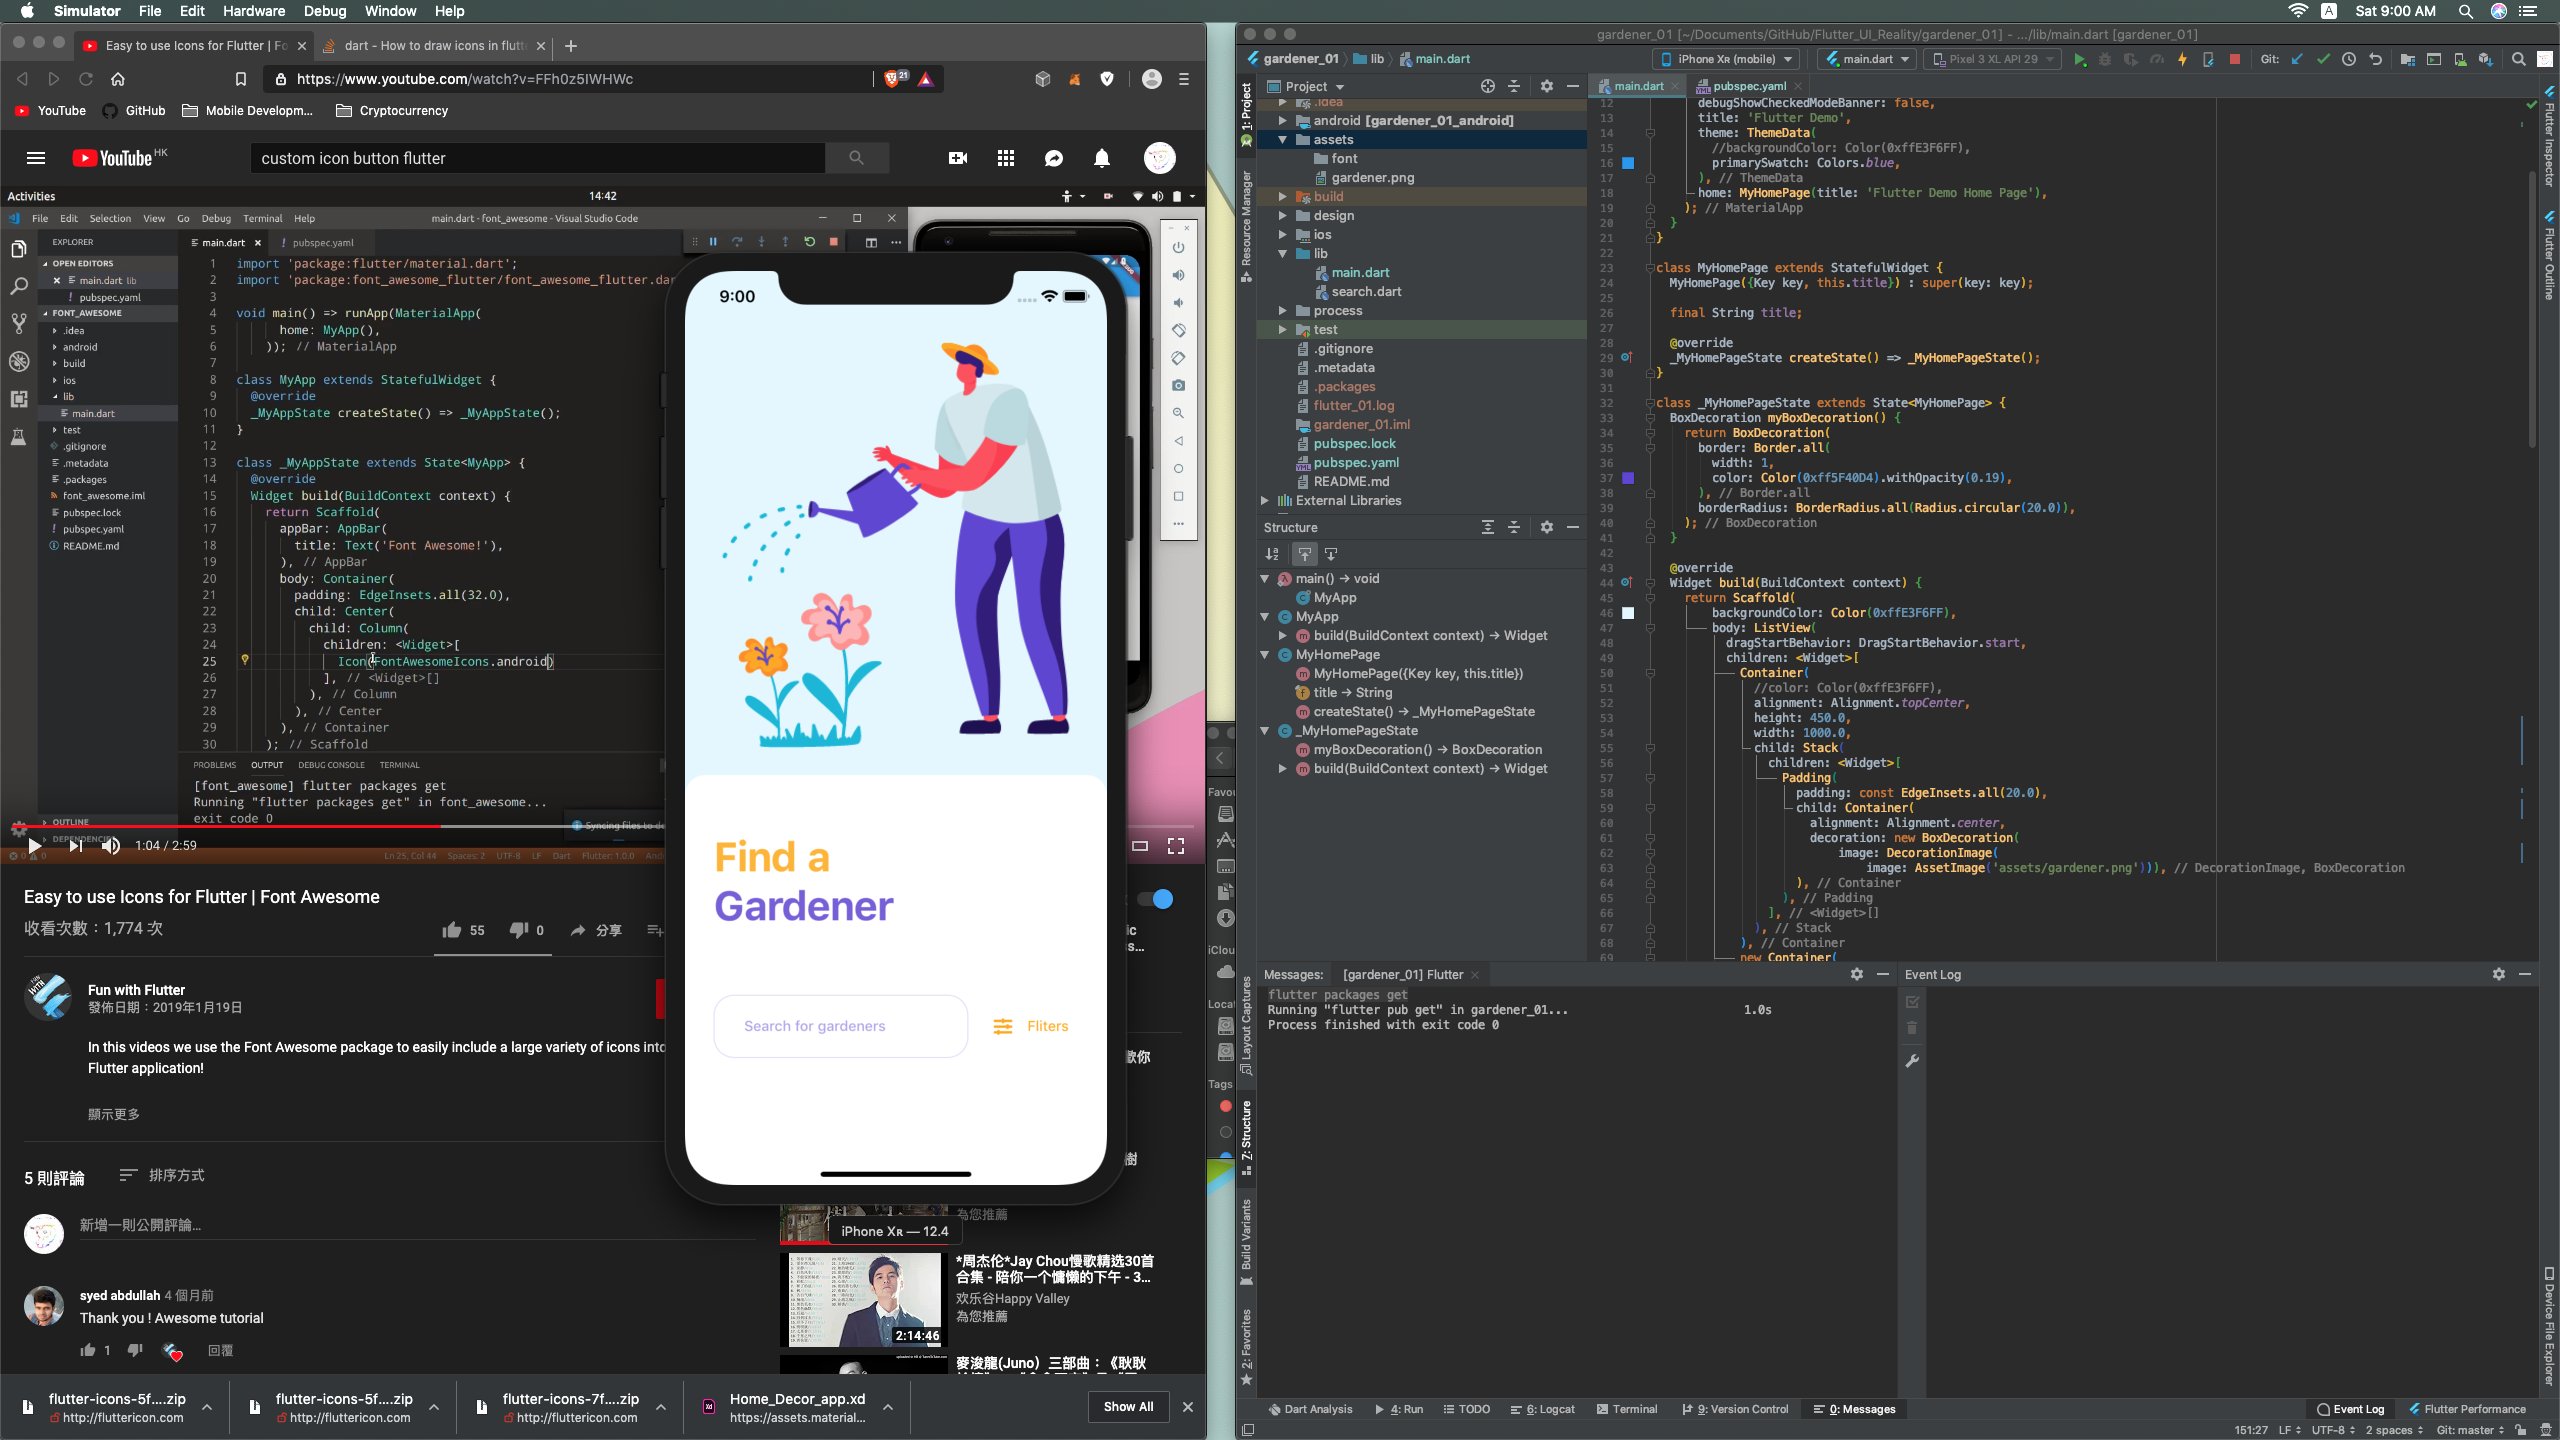
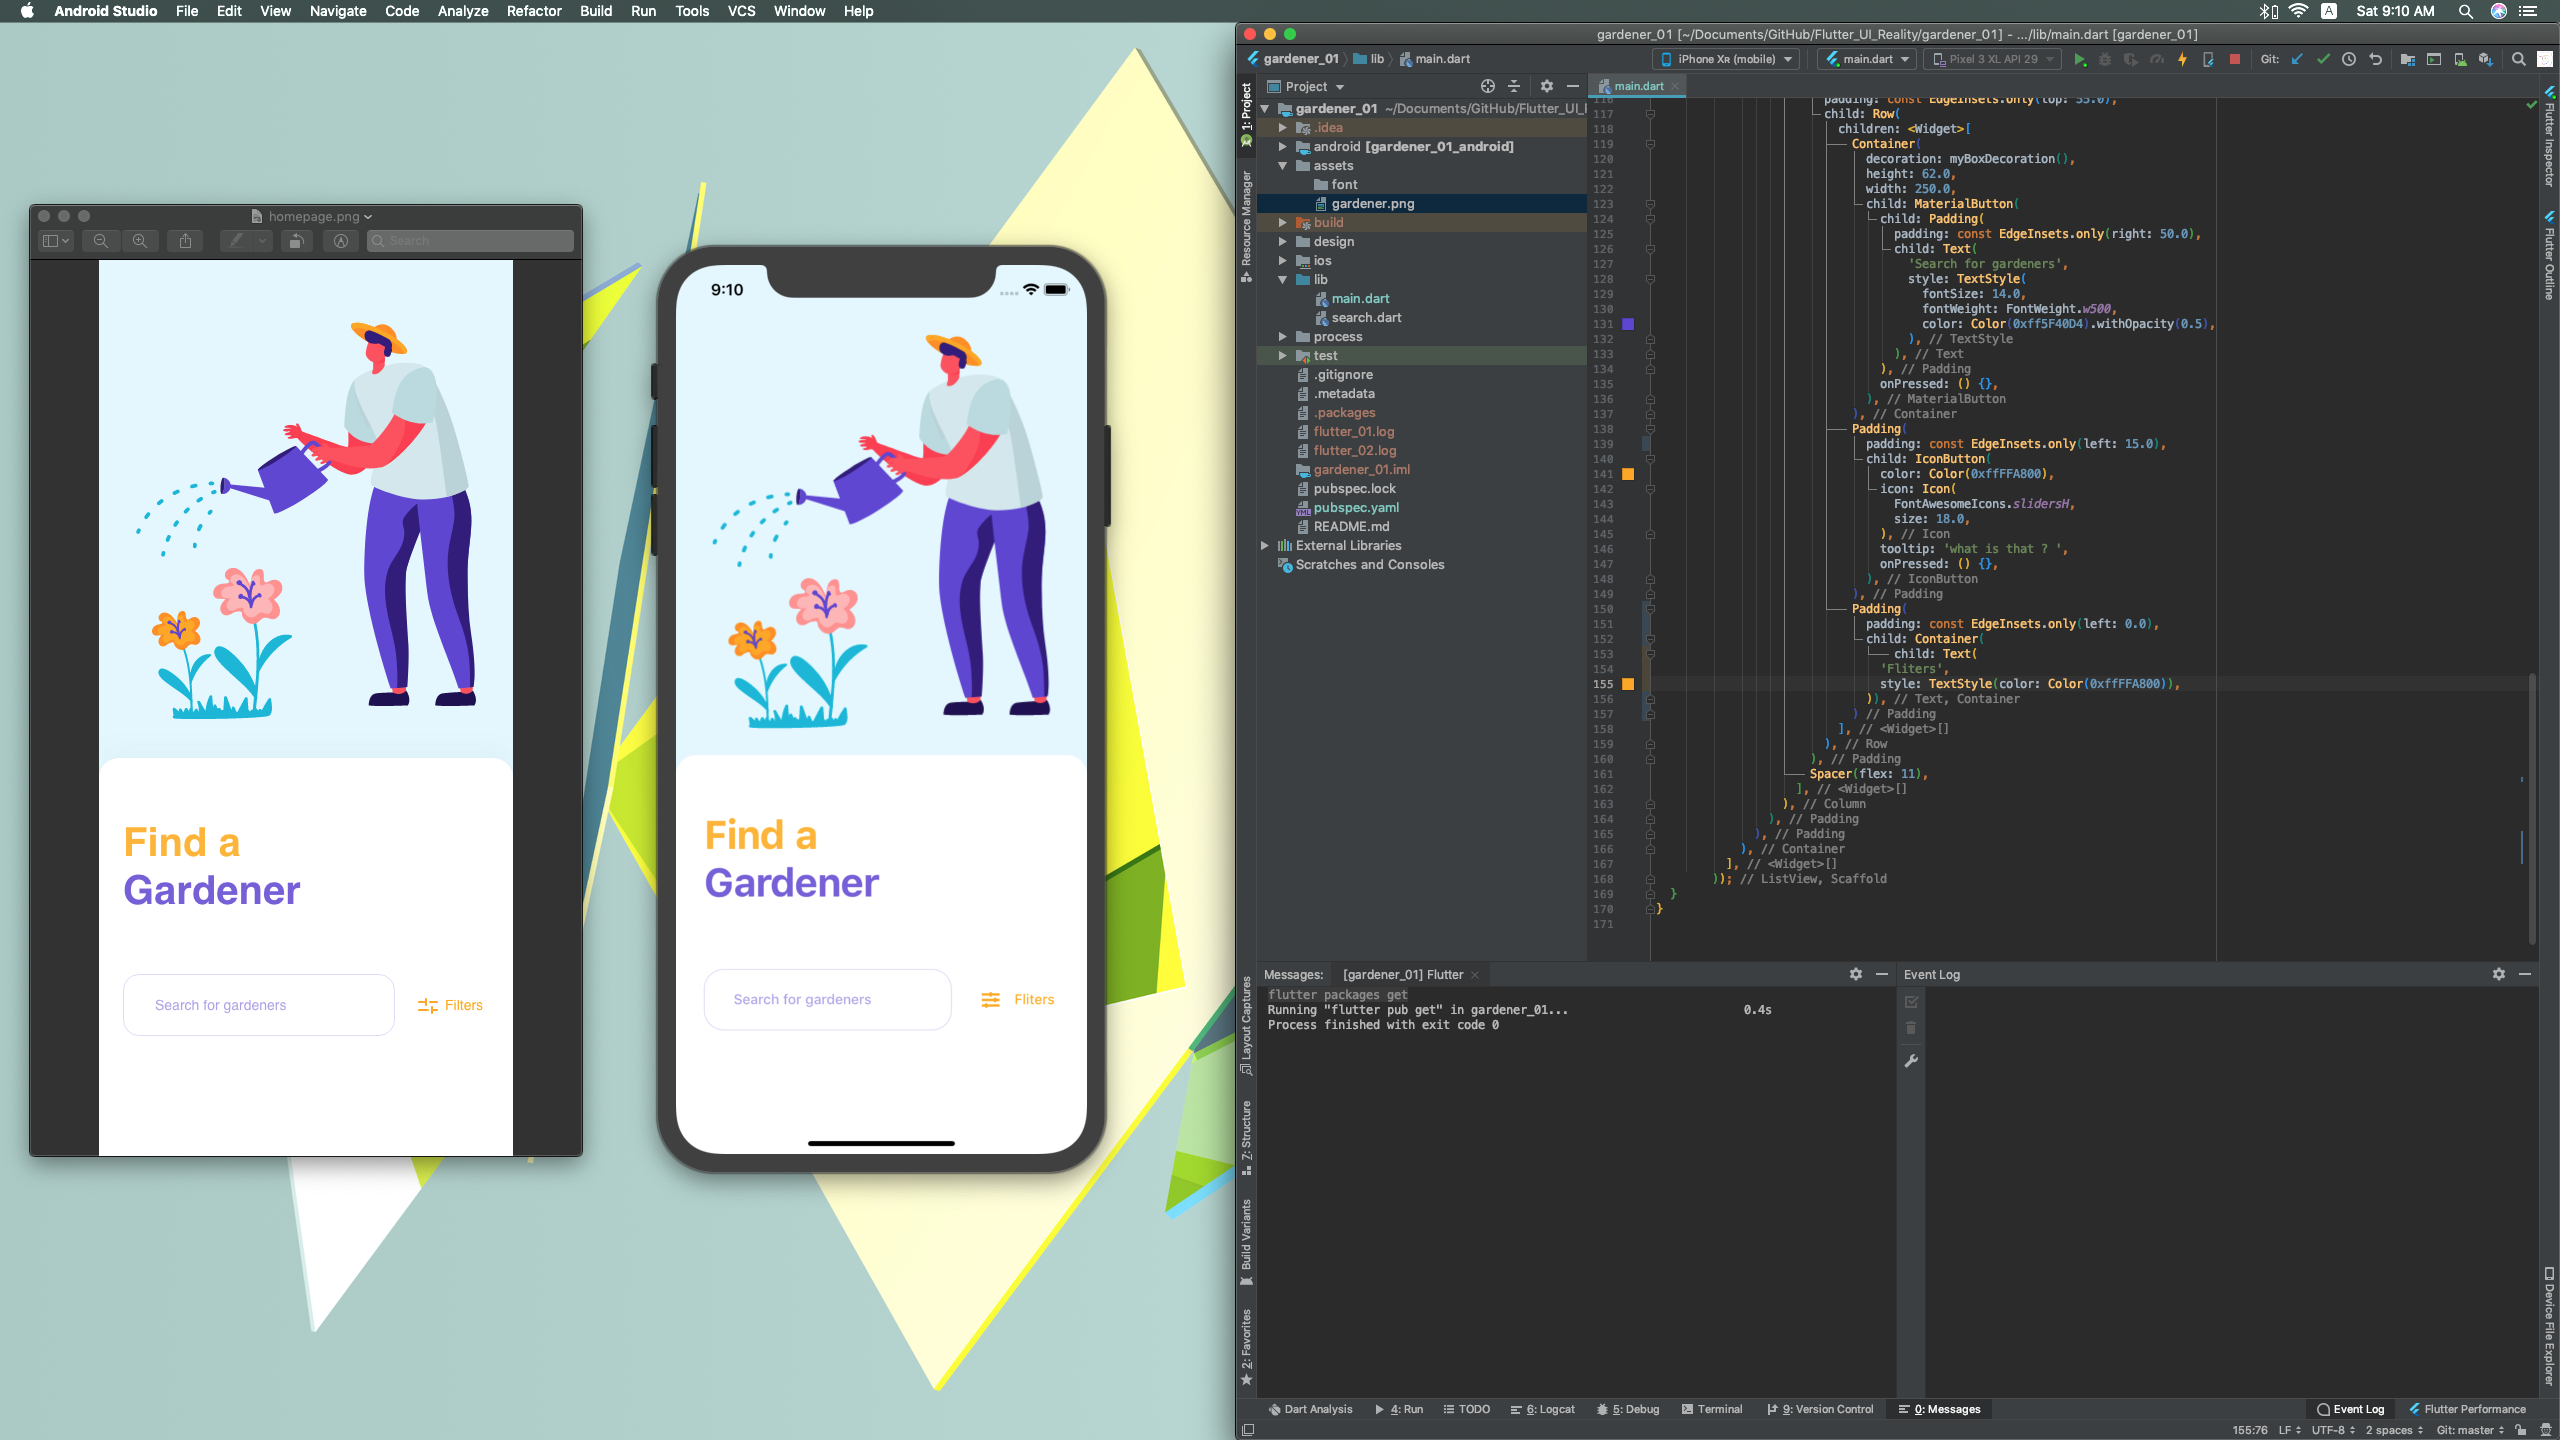
update

diff --git a/gardener_01/lib/main.dart b/gardener_01/lib/main.dart
@@ -136,7 +136,7 @@ class _MyHomePageState extends State<MyHomePage> {
                               ),
                             ),
                             Padding(
-                              padding: const EdgeInsets.only(left: 10.0),
+                              padding: const EdgeInsets.only(left: 15.0),
                               child: IconButton(
                                 color: Color(0xffFFA800),
                                 icon: Icon(
@@ -147,11 +147,14 @@ class _MyHomePageState extends State<MyHomePage> {
                                 onPressed: () {},
                               ),
                             ),
-                            Container(
-                                child: Text(
-                              'Fliters',
-                              style: TextStyle(color: Color(0xffFFA800)),
-                            ))
+                            Padding(
+                              padding: const EdgeInsets.only(left: 0.0),
+                              child: Container(
+                                  child: Text(
+                                'Fliters',
+                                style: TextStyle(color: Color(0xffFFA800)),
+                              )),
+                            )
                           ],
                         ),
                       ),
